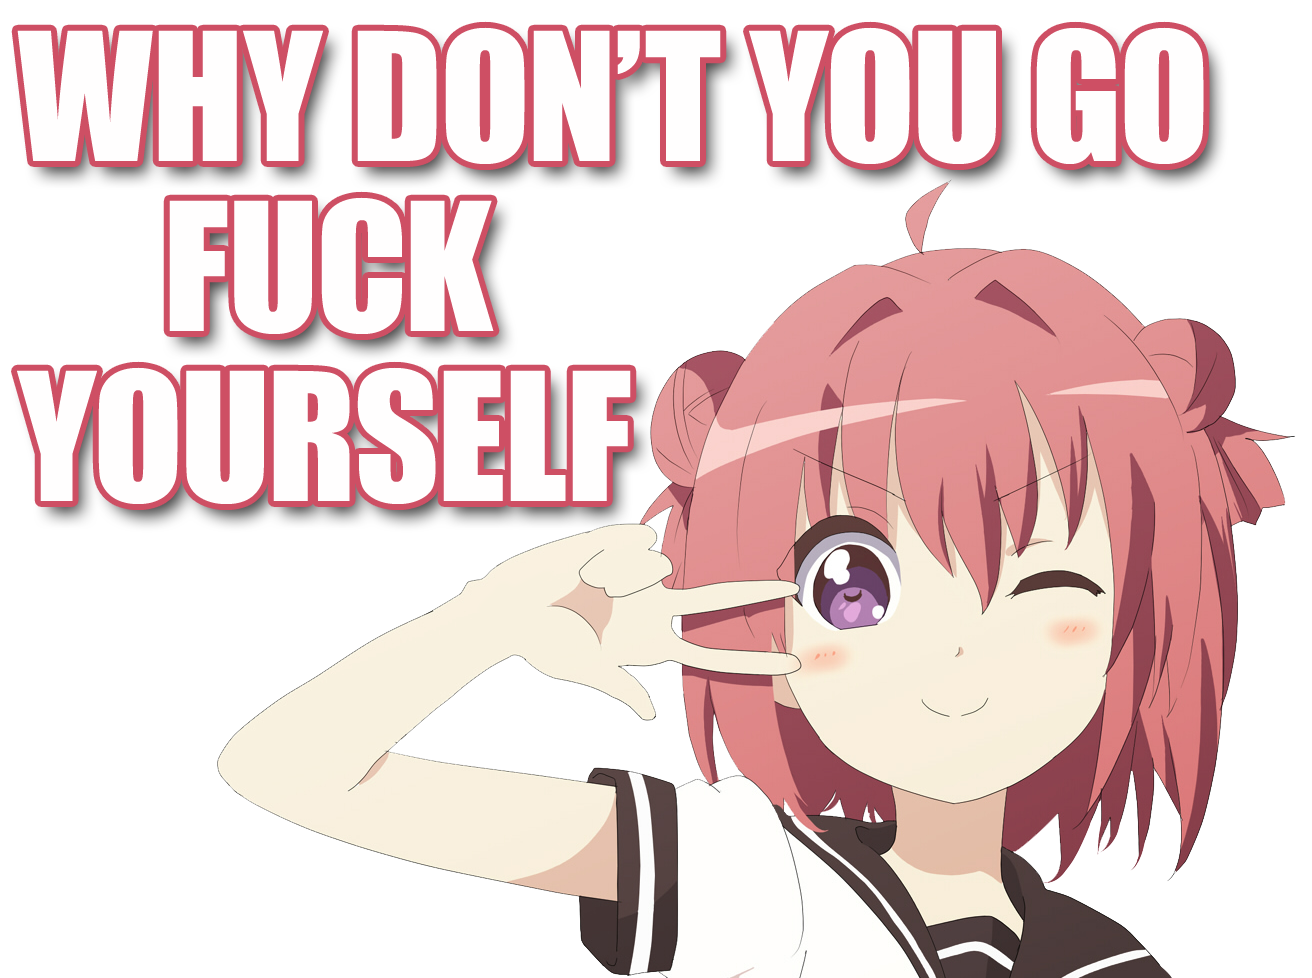
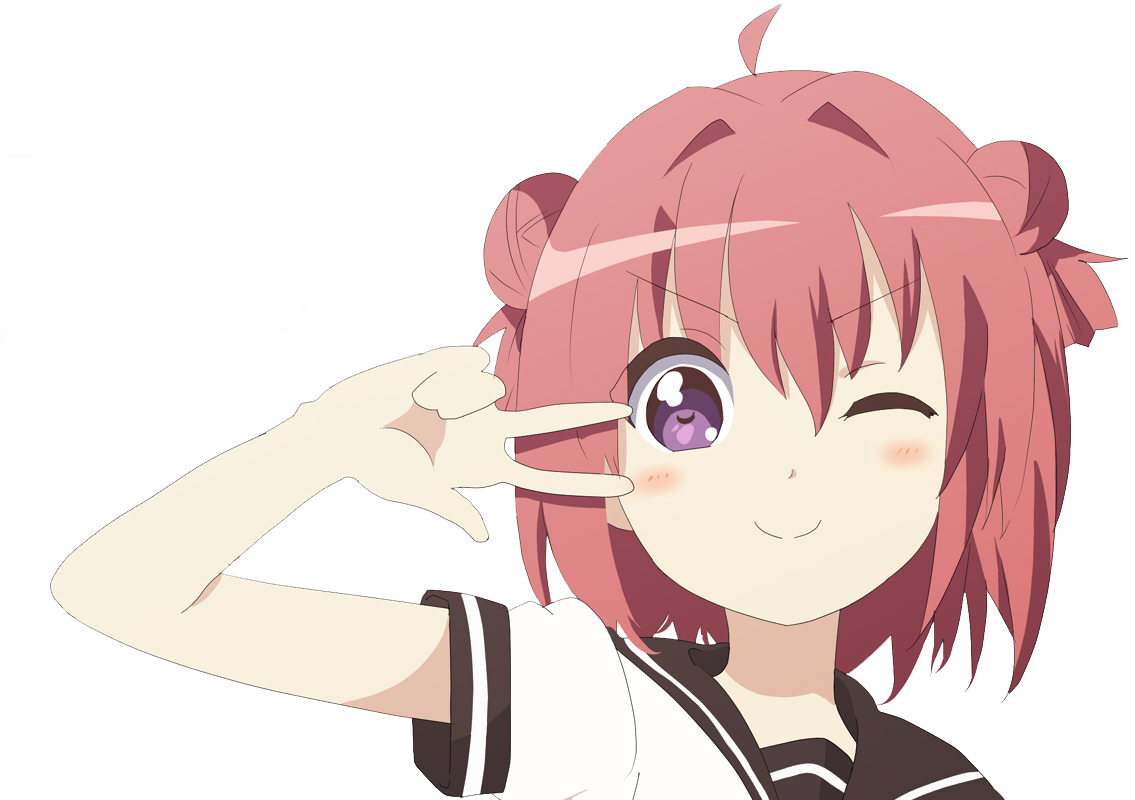
fix background scaling; make mascot click-through

diff --git a/style.css b/style.css
@@ -3,7 +3,7 @@
 /* background image */
 body {
   background-image: url(images/whiterun.jpg);
-  background-size: auto 100%;
+  background-size: cover;
   background-attachment: fixed;
   background-position: center; 
 }
@@ -38,10 +38,10 @@ body {
   top: 10px;
   right: 10px;
 
-   color: #CCC;
+  color: #CCC;
   font-weight: bold;
   font-size: 16px;
-  font-family: Arial;;
+  font-family: Arial;
 }
 
 /* Newspages */
@@ -127,6 +127,7 @@ div img {
   z-index: 5;
   position: fixed;
   bottom: -15px;
-  left: -5px;
-  height: 700px;
+  right: -5px;
+  height: 500px;
+  pointer-events: none;
 }

diff --git a/index.html b/index.html
@@ -66,4 +66,5 @@ drag&drop for image search/upload to dropbox?
 fefe als newsquelle?
 Fake DoF with Mascot in foreground and blurry wallpaper in background?
 generate links from bookmarks
+dynamic wallpaper like muzei 
 
